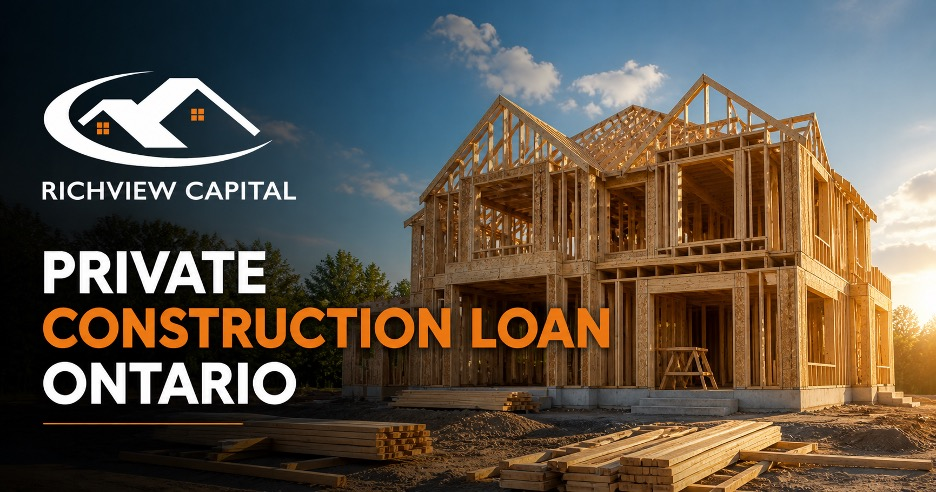
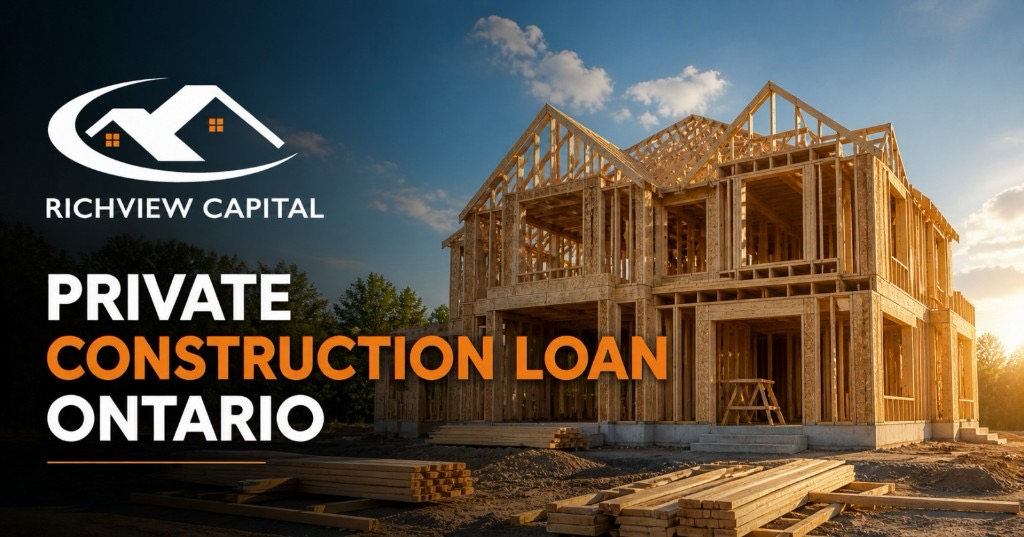
Blog: refresh Ontario construction hero; cover thumbs to drop letterboxing
- Replace private-construction-loan-ontario-hero.jpg (1024×537) and OG/hero dimensions
- Use object-fit cover with left anchor for branded cards and post hero (blog index, site chrome, homepage)

diff --git a/css/site-chrome-from-blog.css b/css/site-chrome-from-blog.css
@@ -565,19 +565,15 @@
             transition: transform 0.4s var(--ease-out);
         }
 
-        /* Hero art with headline on the left — cover clips left copy at 16:10 */
+        /* Branded left copy: cover fills frame; left anchor avoids center-cropping the headline */
         .blog-card-image.blog-card-image--object-left img {
-            object-fit: contain;
+            object-fit: cover;
             object-position: left center;
             transform-origin: left center;
         }
 
         .blog-card:hover .blog-card-image img {
             transform: scale(1.03);
-        }
-
-        .blog-card:hover .blog-card-image.blog-card-image--object-left img {
-            transform: scale(1.02);
         }
 
         .blog-card-body {

diff --git a/index.html b/index.html
@@ -2179,7 +2179,6 @@
             background: #eef2f7;
             flex-shrink: 0;
         }
-        /* Branded art: letterbox blends with dark panel; avoids clipping left copy on cover */
         .blog-card-thumb.blog-card-thumb--object-left {
             background: #0b1635;
         }
@@ -2194,17 +2193,14 @@
             display: block;
             transition: transform 0.35s var(--ease-out);
         }
-        /* Branded hero with copy on the left — contain + left anchor keeps type in frame */
+        /* Branded left copy: cover fills thumb; left anchor keeps type visible at 2:1 */
         .blog-card-thumb.blog-card-thumb--object-left img {
-            object-fit: contain;
+            object-fit: cover;
             object-position: left center;
             transform-origin: left center;
         }
         .blog-card:hover .blog-card-thumb img {
             transform: scale(1.05);
-        }
-        .blog-card:hover .blog-card-thumb.blog-card-thumb--object-left img {
-            transform: scale(1.04);
         }
         .blog-card-body {
             display: flex;

diff --git a/blog/index.html b/blog/index.html
@@ -592,18 +592,15 @@
             transition: transform 0.4s var(--ease-out);
         }
 
+        /* Branded left copy: cover fills 16:10 (no letterboxing); left anchor keeps headline in frame */
         .blog-card-image.blog-card-image--object-left img {
-            object-fit: contain;
+            object-fit: cover;
             object-position: left center;
             transform-origin: left center;
         }
 
         .blog-card:hover .blog-card-image img {
             transform: scale(1.03);
-        }
-
-        .blog-card:hover .blog-card-image.blog-card-image--object-left img {
-            transform: scale(1.02);
         }
 
         .blog-card-body {

diff --git a/blog/private-construction-loan-ontario/index.html b/blog/private-construction-loan-ontario/index.html
@@ -20,8 +20,8 @@
     <meta property="og:site_name" content="Richview Capital MIC">
     <meta property="og:locale" content="en_CA">
     <meta property="og:image" content="https://richviewcapitalmic.com/images/blog/private-construction-loan-ontario-hero.jpg">
-    <meta property="og:image:width" content="936">
-    <meta property="og:image:height" content="492">
+    <meta property="og:image:width" content="1024">
+    <meta property="og:image:height" content="537">
     <meta property="og:image:alt" content="Private construction loan Ontario — GTA custom home under construction">
     <meta property="article:published_time" content="2026-05-05T09:00:00-04:00">
     <meta property="article:modified_time" content="2026-05-11T10:27:00-04:00">
@@ -269,7 +269,7 @@
                 <h1 class="post-title">Private construction loan Ontario: how GTA builds actually get funded</h1>
                 
                 <figure class="post-hero-figure post-hero-figure--object-left" aria-label="Article hero image">
-                    <img src="/images/blog/private-construction-loan-ontario-hero.jpg" width="936" height="492" alt="Private construction loan Ontario — GTA custom home under construction with progress-draw financing" loading="eager" decoding="async">
+                    <img src="/images/blog/private-construction-loan-ontario-hero.jpg" width="1024" height="537" alt="Private construction loan Ontario — GTA custom home under construction with progress-draw financing" loading="eager" decoding="async">
                 </figure>
                 <p class="post-lead">When institutional construction draws stall or the bank declines a non-conforming file, private construction financing can keep a GTA build moving. This guide explains real pricing, draw mechanics, Ontario holdback law, and how to structure an exit to A or B take-out financing.</p>
                 <div class="post-prose">

diff --git a/css/blog-post.css b/css/blog-post.css
@@ -49,13 +49,13 @@
     border-radius: 10px;
     overflow: hidden;
     background: #0b1635;
-    aspect-ratio: 936 / 492;
+    aspect-ratio: 1024 / 537;
     max-height: min(58vh, 440px);
 }
 .post-hero-figure.post-hero-figure--object-left img {
     width: 100%;
     height: 100%;
-    object-fit: contain;
+    object-fit: cover;
     object-position: left center;
     display: block;
 }